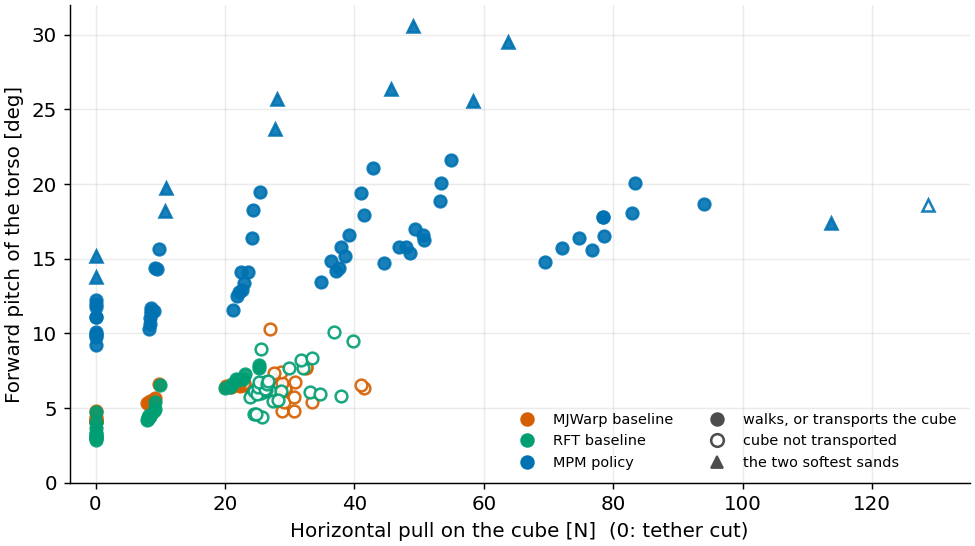
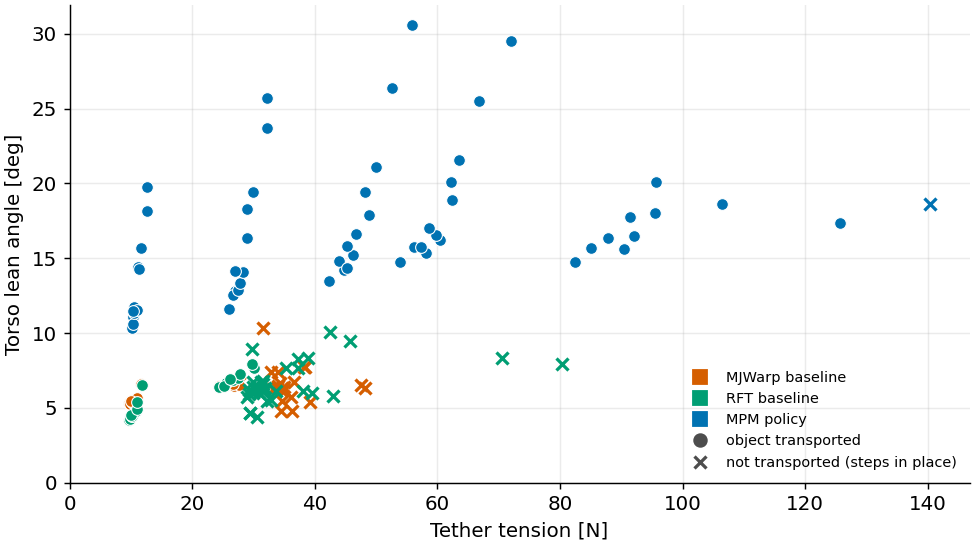
T2: towing slide with figure numbers, why as numbers, simplified gait scatter

diff --git a/site/T3/p3_towing.html b/site/T3/p3_towing.html
@@ -1,1 +1,1 @@
-<div class="kicker">P2 · object towing</div><h2>Object towing</h2><h3>What</h3><p><b>The MPM policy robustly pulls objects under diverse material sets while the baselines do not.</b></p><figure><a href="fig/tow_brief_what.png"><img src="fig/tow_brief_what.png" alt="Share of trials that transport the 15 kg cube per policy and MPM sand"></a></figure><div class="callout">15 kg cube, 12 MPM sands, 16 trials each: the MPM policy transports it in 16 of 16 on 11 sands and in 11 of 16 on the softest; both baselines in 0 of 16 on every sand.</div><p class="src">Command 0.5 m/s, 0.3 m cube, 16 trials per cell; pull = horizontal part of the tether force. Records: outputs/T2.md.</p><h3>Why</h3><p><b>Baseline physics solvers do not simulate big enough forces applied on objects, so the baselines fail to produce enough pull force.</b></p><figure><a href="fig/tow_brief_why.png"><img src="fig/tow_brief_why.png" alt="Pull the cube needs per ground and pull the baselines develop on MPM sand"></a></figure><div class="callout">At equal cube speed the 15 kg cube needs 50 N on rigid ground, 62 to 64 N on RFT sand and 69 to 94 N on MPM sand; on MPM sand the baselines develop 25 to 42 N.</div><p class="src">Left: 15 kg cube towed at the command speed. Right: the baselines with the 15 kg cube, sands where they stay up.</p><details><summary>Numbers</summary><table><thead><tr><th>Ground</th><th>Towed by</th><th>Grounds at equal cube speed</th><th>Pull [N]</th></tr></thead><tbody><tr><td>rigid ground (MJWarp)</td><td>MPM policy</td><td>1</td><td>50</td></tr><tr><td>RFT sand</td><td>RFT tow policy</td><td>3</td><td>62 to 64</td></tr><tr><td>MPM sand</td><td>MPM policy</td><td>10</td><td>69 to 94</td></tr><tr><td>MJWarp baseline on MPM sand</td><td>itself</td><td>7 sands, cube not transported</td><td>29 to 42</td></tr><tr><td>RFT baseline on MPM sand</td><td>itself</td><td>10 sands, cube not transported</td><td>25 to 38</td></tr></tbody></table></details><h3>How to verify A: change the object's mass</h3><figure><a href="fig/tow_brief_mass.png"><img src="fig/tow_brief_mass.png" alt="Transport rate against cube mass per policy on MPM sand and rigid ground"></a></figure><div class="callout">On MPM sand the baselines walk without the cube and transport the 2 kg cube (100% of trials), slow down with 5 kg (cube at 0.21 to 0.31 m/s against 0.35 to 0.41 m/s; 90 to 98%) and transport nothing from 8 kg on; the MPM policy transports every cube up to 15 kg (100%). On rigid ground all three transport every cube in 100% of trials.</div><p class="src">MPM sand: the 8 sands where all three policies walk without the cube, pooled.</p><details><summary>Numbers</summary><table><thead><tr><th>Policy</th><th>tether cut</th><th>2 kg</th><th>5 kg</th><th>8 kg</th><th>10 kg</th><th>15 kg</th></tr></thead><tbody><tr><td>MJWarp baseline</td><td>99%</td><td>100%</td><td>90%</td><td>0%</td><td>0%</td><td>0%</td></tr><tr><td>RFT baseline</td><td>100%</td><td>100%</td><td>98%</td><td>0%</td><td>0%</td><td>0%</td></tr><tr><td>MPM policy</td><td>100%</td><td>100%</td><td>100%</td><td>100%</td><td>100%</td><td>100%</td></tr></tbody></table></details><h3>How to verify B: the gait behind the bigger pull</h3><figure><a href="fig/tow_brief_gait.png"><img src="fig/tow_brief_gait.png" alt="Torso pitch against pull per policy, MPM sands and cube masses"></a></figure><div class="callout">With 8 to 15 kg cubes the MPM policy leans 13 to 22 degrees and tows (17 to 31 degrees on the two softest sands); the baselines stay at 4 to 10 degrees and do not.</div><p class="src">One point per sand and cube mass (tether cut, 2 to 15 kg) where the policy walks without the cube.</p><div class="callout">Interpretation, not measured: leaning forward lets the body weight contribute to the pull (the horizontal share of m g grows with the sine of the lean), as a person does when towing a load.</div><h3>Caveats</h3><ul><li><b>Lean is not only load:</b> it rises with softer sand even without the cube (9 to 15 degrees), and with the 15 kg cube it levels off at 15 to 20 degrees.</li><li><b>"Do not", not "cannot":</b> on sand the baselines step in place and pull less than on rigid ground (49 to 50 N with 15 kg); no policy is at a friction limit.</li><li><b>15 kg is outside the baselines' training load:</b> the 8 and 10 kg cubes carry the comparison; a baseline trained with heavier cubes is in training.</li><li><b>Softest sands:</b> without the cube the MJWarp baseline falls on the 4 softest sands and the RFT baseline on the 2 softest.</li><li><b>Transport:</b> a trial counts when the cube itself travels 8 m.</li></ul><p class="src"><a href="p3_towing_full.html">Full history</a>: every run, table and control behind this slide.</p>
+<div class="kicker">P2 · object towing</div><h2>Object towing</h2><h3>What</h3><p><b>The MPM policy robustly pulls objects under diverse material sets while the baselines do not.</b></p><figure><a href="fig/tow_brief_what.png"><img src="fig/tow_brief_what.png" alt="Share of trials that transport the 15 kg cube, per policy and MPM sand."></a><figcaption>Share of trials that transport the 15 kg cube, per policy and MPM sand.</figcaption></figure><div class="callout">15 kg cube, 12 MPM sands, 16 trials each: the MPM policy transports it in 16 of 16 on 11 sands and in 11 of 16 on the softest; both baselines in 0 of 16 on every sand.</div><p class="src">Command 0.5 m/s, 0.3 m cube, 16 trials per cell; pull = horizontal part of the tether force. Records: outputs/T2.md.</p><h3>Why</h3><p><b>Baseline physics solvers do not simulate big enough forces applied on objects, so the baselines fail to produce enough pull force.</b></p><table><thead><tr><th>Policy</th><th>Ground it trained against</th><th>Horizontal force on the 15 kg cube there [N]</th></tr></thead><tbody><tr><td>MJWarp baseline</td><td>rigid ground, friction 0.5</td><td>50</td></tr><tr><td>RFT baseline</td><td>RFT sand, 3000 kg/m³, friction 0.3</td><td>not towed in the test: pulls 29 N, cube at 0.03 m/s (62 to 64 N on the 6 lighter RFT sands that an RFT-trained tow policy tows)</td></tr><tr><td>MPM policy</td><td>MPM sand, loose poppy seed (640 kg/m³, friction 0.73)</td><td>94</td></tr></tbody></table><div class="callout">On the 12 MPM sands the 15 kg cube needs 69 to 94 N at equal cube speed (10 sands); the baselines develop 25 to 42 N there. None of the three tasks randomized the material acting on the cube, so each policy trained against one value.</div><h3>How to verify A: change the object's mass</h3><figure><a href="fig/tow_brief_mass.png"><img src="fig/tow_brief_mass.png" alt="Share of trials that stay up (tether cut) or transport the cube, against the cube's mass."></a><figcaption>Share of trials that stay up (tether cut) or transport the cube, against the cube's mass.</figcaption></figure><div class="callout">All three policies walk on MPM sand with the tether cut and transport the 2 kg cube (99 to 100% of trials). With a heavier cube the baselines fail: they slow down with 5 kg (cube at 0.21 to 0.31 m/s against 0.35 to 0.41 m/s with 2 kg) and transport 0% from 8 kg on; the MPM policy transports every cube (100%). So the failure is in the pulling, not in standing stably.</div><p class="src">MPM sand: the 8 sands where all three policies walk without the cube, pooled.</p><details><summary>Numbers</summary><table><thead><tr><th>Policy</th><th>tether cut</th><th>2 kg</th><th>5 kg</th><th>8 kg</th><th>10 kg</th><th>15 kg</th></tr></thead><tbody><tr><td>MJWarp baseline</td><td>99%</td><td>100%</td><td>90%</td><td>0%</td><td>0%</td><td>0%</td></tr><tr><td>RFT baseline</td><td>100%</td><td>100%</td><td>98%</td><td>0%</td><td>0%</td><td>0%</td></tr><tr><td>MPM policy</td><td>100%</td><td>100%</td><td>100%</td><td>100%</td><td>100%</td><td>100%</td></tr></tbody></table></details><h3>How to verify B: the gait behind the bigger pull</h3><figure><a href="fig/tow_brief_gait.png"><img src="fig/tow_brief_gait.png" alt="Torso lean angle against tether tension, per policy."></a><figcaption>Torso lean angle against tether tension, per policy.</figcaption></figure><div class="callout">Forward lean is the key to the MPM policy's pull: it leans 10 to 31 degrees wherever it transports the object, while the baselines stay at 4 to 10 degrees and stop transporting above 30 N.</div><p class="src">One point per MPM sand and cube mass (2 to 15 kg) where at least 3 of 16 trials stay up.</p><div class="callout">Interpretation, not measured: leaning forward lets the body weight contribute to the pull (the horizontal share of m g grows with the sine of the lean), as a person does when towing a load.</div><h3>Caveats</h3><ul><li><b>Lean is not only load:</b> it rises with softer sand even without the cube (9 to 15 degrees), and with the 15 kg cube it levels off at 15 to 20 degrees.</li><li><b>"Do not", not "cannot":</b> on sand the baselines step in place and pull less than on rigid ground (49 to 50 N with 15 kg); no policy is at a friction limit.</li><li><b>15 kg is outside the baselines' training load:</b> the 8 and 10 kg cubes carry the comparison; a baseline trained with heavier cubes is in training.</li><li><b>Softest sands:</b> without the cube the MJWarp baseline falls on the 4 softest sands and the RFT baseline on the 2 softest.</li><li><b>Transport:</b> a trial counts when the cube itself travels 8 m.</li></ul><p class="src"><a href="p3_towing_full.html">Full history</a>: every run, table and control behind this slide.</p>

diff --git a/outputs/T7.md b/outputs/T7.md
@@ -55,6 +55,7 @@ Standing rule from Junnosuke (2026-11-24): the `.tex` sources carry no comments 
 - **Committed and pushed by the lead session (at Junnosuke's request to it), not by me:** paper repo `main` at `975a0fd`, in sync with `origin/main`. `0e967d6` holds the local work (explicit paths, `TODO.txt` excluded); `975a0fd` merges the Overleaf sync `01c009c` (introduction and one methodology tag from origin; local `evaluation.tex` kept, its three old note blocks not taken). Untracked: `TODO.txt`, `build/`, `build_template/`, `.vscode/`, `.serena/`, `.latexmkrc`, `skills/`, `sections/evaluation_format_change.md`; no `.gitignore`. Build of the merged tree: no errors, the one known undefined reference (`sec:particle_nerd`), 6 pages; the main text ends 58% down the right column of page 5, about 4.8 pages (the introduction from Overleaf is longer).
 - **Towing figure swapped to `t3_tow_force.pdf`** (lead; Junnosuke's C-3 comment "show the evidence ..."). Caption: "Object transport. Tension force of the MPM policy on each terrain solver over varied terrain parameters; insets: robot posture with torso pitch." No number from it in the text. His printed comment is left in place until he has seen the figure. Sent to the lead: the figure does not show the ordering the text states (text: force 1.7 times RFT sand and twice rigid ground; figure: means about 99, 66, 70 N for MPM, RFT, MJWarp, the MJWarp band reaches about 93 N, above every RFT point and into the MPM band, and every RFT point is open, i.e. the cube is slower than 0.45 m/s there); the insets are pixelated.
 - **Introduction, contribution bullets (Junnosuke, via the lead):** four bullets in his order: "Evaluation of MPM's accuracy and streaming mechanism which makes MPM tractable for policy learning on unbounded terrain and larger parallel environments."; "Holistic benchmark on when MPM is useful over baselines."; "Demonstration that the whole pipeline works for multiple tasks and transfers from simulation to hardware."; "Particle neural robot dynamics (particle NeRD), a neural surrogate which further speeds up policy training X times." ("X times" is his placeholder.) His previous three bullets are kept, commented out, above the new list; the UR10 / Go2 / G1 list is not carried over. His printed "contribution change" note below the list (the earlier three-bullet plan) was removed afterwards at his request, via the lead; it remains in the git history (`975a0fd`). Towing figure: `t3_tow_force_v2.pdf` (sharper insets) is in; a v3 will follow.
+- **Teaser added as Fig. 1 (Junnosuke, directly, 2026-11-25):** `figures/g1_granular_incline.pdf` (his file, a photo of the G1 on the inclined granular testbed, single column) in `introduction.tex`, placed after the first paragraph so that it lands at the top of the right column of page 1; caption "Unitree G1 humanoid walking on an inclined granular testbed."; label `fig:teaser`, not cited in the text. Which policy and which slope angle the photo shows is not stated (not known to me). Numbers now: 1 teaser, 2 terrain history, 3 MPM against DEM, 4 cost, 5 walk, 6 sole close-up, 7 towing; all text references follow through labels. Towing figure is `t3_tow_force_v3.pdf` (full-resolution insets). 6 pages; main text ends 58% down the right column of page 5, about 4.8 pages.
 - **Fig. 2 v5 in the paper** (Junnosuke asked for penetration in the push down and the twist too): pale bars at about 20% and 18%, unchecked; not in the text. Main text ends 43% down the right column of page 6, about 0.72 page over.
 - **Earlier the same pass (superseded by the items above): B-1 text not changed.** Checked values from the lead (error relative to DEM, DEM run-to-run level in brackets): deformation 12% (7%) push, 23% (10%) push down, 14% (12%) push up, 14% (14%) twist; penetration 7% (3%) trench, at most 25% (4%) pit after pull-out; dispersion 27% (15%), 33% (21%), 62% (38%), 42% (25%). Sentence offered to Junnosuke in place of the 7% / 17% / correlation 0.95 sentence: "Across pushing, pressing, lifting and twisting, MPM reproduces DEM's surface deformation within 12 to 23%, close to DEM's own run-to-run level, while its sand displacement differs by 27 to 62%." Waiting for his decision.
 - **Fig. 2 change requested (Junnosuke, via the lead to the T8 session):** an illustration in the empty upper-left area that shows what penetration, deformation (berm, rim), and dispersion measure; the hatched DEM-vs-DEM bars removed ("totally unnecessary"). Added by me from his question: a clearer label than "n/a (depth prescribed)", which he read as "only push down and twist are prescribed". The file arrived as `t8_mpm_dem_stats_v3.pdf` and is in the paper; the caption now reads "Error relative to DEM in penetration, deformation, and dispersion." Answers given to Junnosuke's questions, with the lead's correction: all four motions are prescribed in both simulators; penetration is n/a where the box stays in the sand; the corner pile-up explains the twist's rim height, not its dispersion; the cause of the dispersion error in the push up and the twist is not established.

diff --git a/outputs/T2.md b/outputs/T2.md
@@ -368,6 +368,30 @@ Numbers on the page, computed by the script:
 - Gait: with 8 to 15 kg the MPM policy leans 13 to 22 degrees on ten sands and 17 to 31 degrees on the two softest; the baselines 4 to 10 degrees where the cube is not transported.
 - New from this figure, unchecked: on the two softest sands the MPM policy leans 24 to 31 degrees with 5 to 10 kg cubes, more than with 15 kg (17 to 19 degrees, where the tow slows). "The lean saturates near 20 degrees" holds for the 15 kg cube over the sands, not for every load.
 - Not on the page: the three robot renderings as insets (not added).
+
+### "Why" figure, second version: design, fixed before running (2026-11-25)
+
+Asked for by Junnosuke through the lead: one figure with three series (rigid, RFT, MPM), each the horizontal force on the 15 kg cube when the policy trained on that solver tows on that solver, over that solver's range of stiffness-related parameters.
+
+What the task configurations say about the training range (read before running):
+- Rigid baseline `bc1o99un` (`g1_29dof_rigid_tow/tow_rough_env_cfg.py`): ground friction 0.5 and cube friction 0.5, both fixed. Only the robot's feet are randomized (static friction 0.6 to 1.0).
+- RFT baseline `5x48qh9t` (`g1_29dof_soft_contact_tow/tow_rough_env_cfg.py`, events of the RFT walking task): the sand under the feet is randomized (bulk density 1000 to 3000 kg/m3, friction 0.1 to 1.0, `contact_solver_name="physics_callback"`); the cube's own RFT contact (`sled_physics_callback`) is not in that event and keeps the default material (3000 kg/m3, friction 0.3).
+- MPM policy `her588wk` (`g1_29dof_mpm_tow`): one fixed sand, loose poppy seed (640 kg/m3, friction 0.73).
+So for the force on the object, no training task randomizes the material; a "training randomization range" exists only for the RFT feet. The figure therefore uses a tested range per solver and marks the training value on each series.
+
+Parameter sets, 15 kg cube, command 0.5 m/s, 16 trials per cell (2 runs of 8, seeds 42 and 43), 40 s, goal 10 m, local:
+- Rigid baseline on rigid ground: cube and ground friction 0.3, 0.4, 0.5, 0.6, 0.7, 0.8, 0.9, 1.0 (training value 0.5).
+- RFT baseline on RFT sand: density 1000, 2000, 3000 kg/m3 times friction 0.1, 0.4, 0.7, 1.0 (the feet's training range), surface friction equal to internal friction, applied to feet and cube; plus the cube's training material (3000, 0.3).
+- MPM policy on MPM sand: the 12 sands of the sweep (existing runs; training material loose poppy seed).
+Logs `logs/t2/tow_own_range/{rigid_f*,rft_d*_f*}`. Measure: horizontal part of the tether force, mean from 5 s over the trials that stay up. A material is shown when the cube is transported (at least 14 of 16 trials with 8 m of cube travel); the others are named in the source line. x axis: the materials of a solver ordered by the force they give, from the least to the most resistive, spread over 0 to 1.
+
+### Short slide, second version (2026-11-25, after Junnosuke's feedback)
+
+- "Why" has no figure (his decision). The range sweep above was stopped after five single-seed rigid runs (`logs/t2/tow_own_range/rigid_f0.3` to `rigid_f0.7`, seed 42 only, not used). One cell was run in full: the RFT baseline on RFT sand with the cube's training material (3000 kg/m3, friction 0.3, applied to feet and cube), `logs/t2/tow_own_range/rft_d3000_f0.3`, 16 trials.
+- Result of that cell, unchecked: the RFT baseline does not tow the 15 kg cube there. 16 of 16 stay up, 0 goals, cube at 0.03 m/s, horizontal pull 29 N. So the run does not give "the force the RFT policy trained against"; it gives the pull of a stalled robot. Open: whether the test reproduces the training condition for the cube (in training only the feet's sand was randomized; the test sets feet and cube to 3000 / 0.3), and whether the RFT baseline towed 15 kg in training at all.
+- "Why" table on the slide: MJWarp baseline on rigid ground with friction 0.5: 50 N (cube 0.45 m/s); RFT baseline: not towed, as above, with the 62 to 64 N of the six lighter RFT sands towed by the earlier RFT tow policy; MPM policy on loose poppy seed: 94 N. Line: on the 12 MPM sands the cube needs 69 to 94 N at equal cube speed (10 sands); the baselines develop 25 to 42 N there; no task randomized the material acting on the cube.
+- Figures (numbered by the T3 builder): 28 `tow_brief_what.png`, 29 `tow_brief_mass.png`, 30 `tow_brief_gait.png` (tether tension against torso lean, colour = policy, circle = transported, x = not transported; all 12 sands and 2 to 15 kg cubes where at least 3 of 16 trials stay up). `tow_brief_why.png` and `tow_brief_why_box.png` are no longer used.
+- Takeaways: mass: all three policies walk with the tether cut and transport 2 kg (99 to 100%); baselines slow down with 5 kg and transport 0% from 8 kg; so the failure is in the pulling, not in standing stably. Gait: the MPM policy leans 10 to 31 degrees wherever it transports the object; the baselines stay at 4 to 10 degrees and stop transporting above 30 N of tension.
 <!-- T2-BRIEF:end -->
 
 <!-- T2-METHOD:start -->
